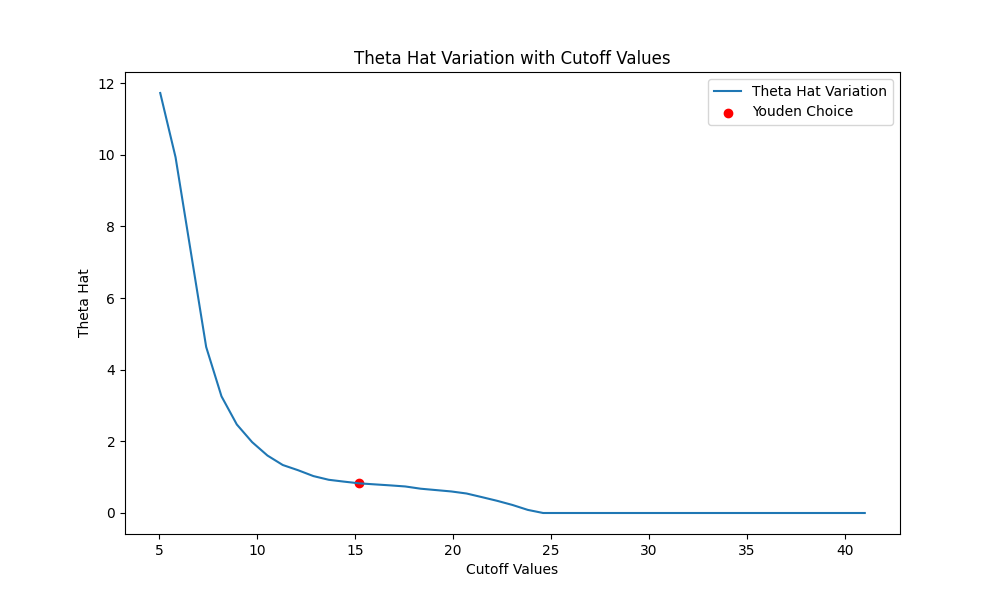
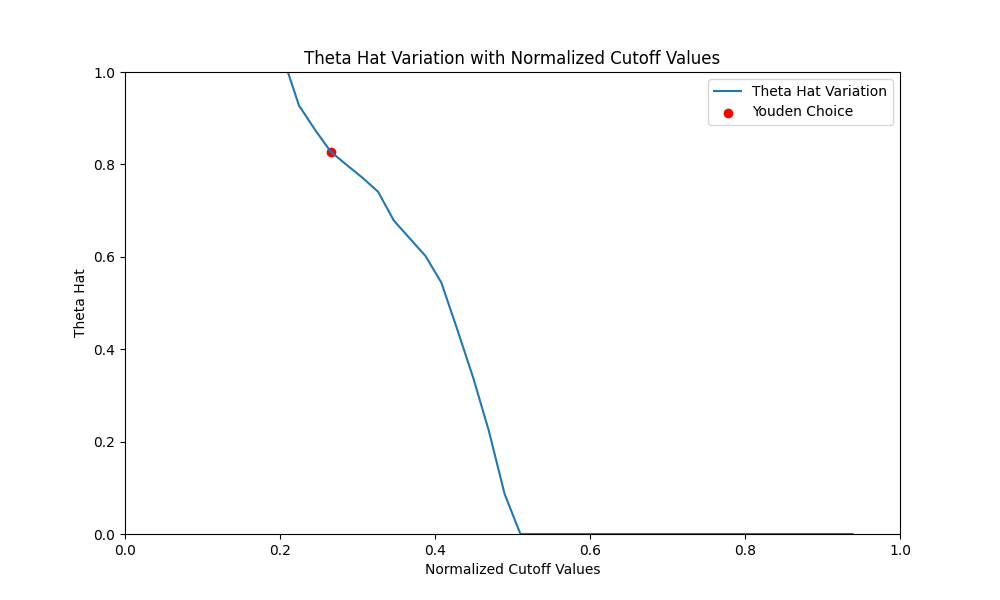
updates

diff --git a/hw4/q1/exp.py b/hw4/q1/exp.py
@@ -7,7 +7,7 @@ import matplotlib.pyplot as plt
 data = pd.read_csv('all_weeks.csv')  # Adjust the filename to match your CSV file
 
 # Adjust for the ascertainment rate by increasing reported cases
-data['Adjusted_New_Cases'] = data['New Cases'] # Multiply by 10 for the ascertainment rate
+data['Adjusted_New_Cases'] = data['New Cases']  # You might need to adjust this based on the ascertainment rate
 
 # Ensure adjusted incidence data does not contain zero or negative values
 data['Adjusted_New_Cases'] = np.maximum(data['Adjusted_New_Cases'], 1)  # Set minimum value to 1
@@ -18,12 +18,8 @@ weekly_new_cases = data['Adjusted_New_Cases'].tolist()  # Use adjusted new case 
 x = np.arange(len(weekly_new_cases))
 
 # Step 3: Identify the period of exponential growth
-# For simplicity, let's assume the first few weeks represent the exponential growth phase
-# You might need to adjust this based on the data
 start_week = 0
-end_week = 15 # len(weekly_new_cases)  # Use all weeks from the dataset
-
-# Subset the data for the exponential growth phase
+end_week = 15  # Adjust this based on the data to capture the exponential growth phase
 x_subset = x[start_week:end_week]
 y_subset = weekly_new_cases[start_week:end_week]  # Actual number of adjusted weekly new cases
 
@@ -37,7 +33,21 @@ gamma = 1 / 2  # duration of infection
 mu = 1 / 100   # typical life expectancy
 R0 = 1 + (slope / (gamma + mu))
 
-# Step 6: Plot the scatterplot of weekly new cases and overlay the exponential fit
+# Step 6: Calculate Confidence Interval for the Slope Estimate
+n = len(y_subset)
+y_pred = reg.predict(X)
+residuals = np.log(y_subset) - y_pred
+mse = np.sum(residuals ** 2) / (n - 2)  # Mean squared error
+se_slope = np.sqrt(mse / np.sum((X - np.mean(X)) ** 2))  # Standard error of the slope
+t = 2.262  # t-value for 95% confidence interval with n-2 degrees of freedom
+slope_lower_bound = slope - t * se_slope
+slope_upper_bound = slope + t * se_slope
+
+# Step 7: Calculate Confidence Interval for R0 Estimate
+R0_lower_bound = 1 + (slope_lower_bound / (gamma + mu))
+R0_upper_bound = 1 + (slope_upper_bound / (gamma + mu))
+
+# Step 8: Plot the scatterplot of weekly new cases and overlay the exponential fit
 plt.scatter(x_subset, y_subset, label='Weekly New Cases', color='blue')  # Plot actual number of cases
 plt.plot(x_subset, np.exp(reg.predict(X)), 'r-', label='Exponential Fit')  # Plot exponential fit
 plt.xlabel('Week')
@@ -49,3 +59,4 @@ plt.savefig('exp.png')
 
 # Print the values
 print("Estimated R0:", R0)
+print("95% Confidence Interval for R0:", (R0_lower_bound, R0_upper_bound))

diff --git a/hw4/q3/plot_assay.py b/hw4/q3/plot_assay.py
@@ -68,6 +68,9 @@ def main():
         num_points = 50  # Adjust the number of points as needed for smoother curve
         c_values = np.linspace(min_c, max_c, num_points)
         
+        # Normalize cutoff values to the range [0, 1]
+        norm_c_values = (c_values - min_c) / (max_c - min_c)
+        
         # Initialize lists to store sensitivity, specificity, corrected prevalence, and Youden index for each cutoff value
         sensitivity_values = []
         specificity_values = []
@@ -92,31 +95,18 @@ def main():
         # Plot the Receiver Operating Characteristic (ROC) curve and the cutoff values
         plt.figure(figsize=(10, 6))
         # Plot J(c)
-        plt.plot(1 - np.array(specificity_values), sensitivity_values, label='ROC Curve')
+        plt.plot(norm_c_values, theta_values, label='Theta Hat Variation')
         # Find the index corresponding to the maximum Youden index
         max_youden_index = np.argmax(youden_values)
         # Plot the Youden choice point
-        plt.scatter(1 - specificity_values[max_youden_index], sensitivity_values[max_youden_index], color='red', label='Youden Choice')
-        # Plot cutoff values
-        #plt.plot(np.linspace(0, 1, 100), np.linspace(0, 1, 100), label='Cutoff Values')
-
-        plt.xlabel('False Positive Rate (1 - Specificity)')
-        plt.ylabel('True Positive Rate (Sensitivity)')
-        plt.title('ROC Curve and Cutoff Values')
-        plt.legend()
-        plt.savefig(args.output_file_roc)
-        
-        # Plot ˆθ(c) variation
-        plt.figure(figsize=(10, 6))
-        # Plot ˆθ(c)
-        plt.plot(c_values, theta_values, label='Theta Hat Variation')
-        # Plot the Youden choice point
-        plt.scatter(c_values[max_youden_index], theta_values[max_youden_index], color='red', label='Youden Choice')
+        plt.scatter(norm_c_values[max_youden_index], theta_values[max_youden_index], color='red', label='Youden Choice')
     
-        plt.xlabel('Cutoff Values')
+        plt.xlabel('Normalized Cutoff Values')
         plt.ylabel('Theta Hat')
-        plt.title('Theta Hat Variation with Cutoff Values')
+        plt.title('Theta Hat Variation with Normalized Cutoff Values')
         plt.legend()
+        plt.ylim(0, 1)  # Set y-axis limits from 0 to 1
+        plt.xlim(0, 1)  # Set x-axis limits from 0 to 1
         plt.savefig(args.output_file_theta)
 
     # Plotting function for just ELISA data!  
